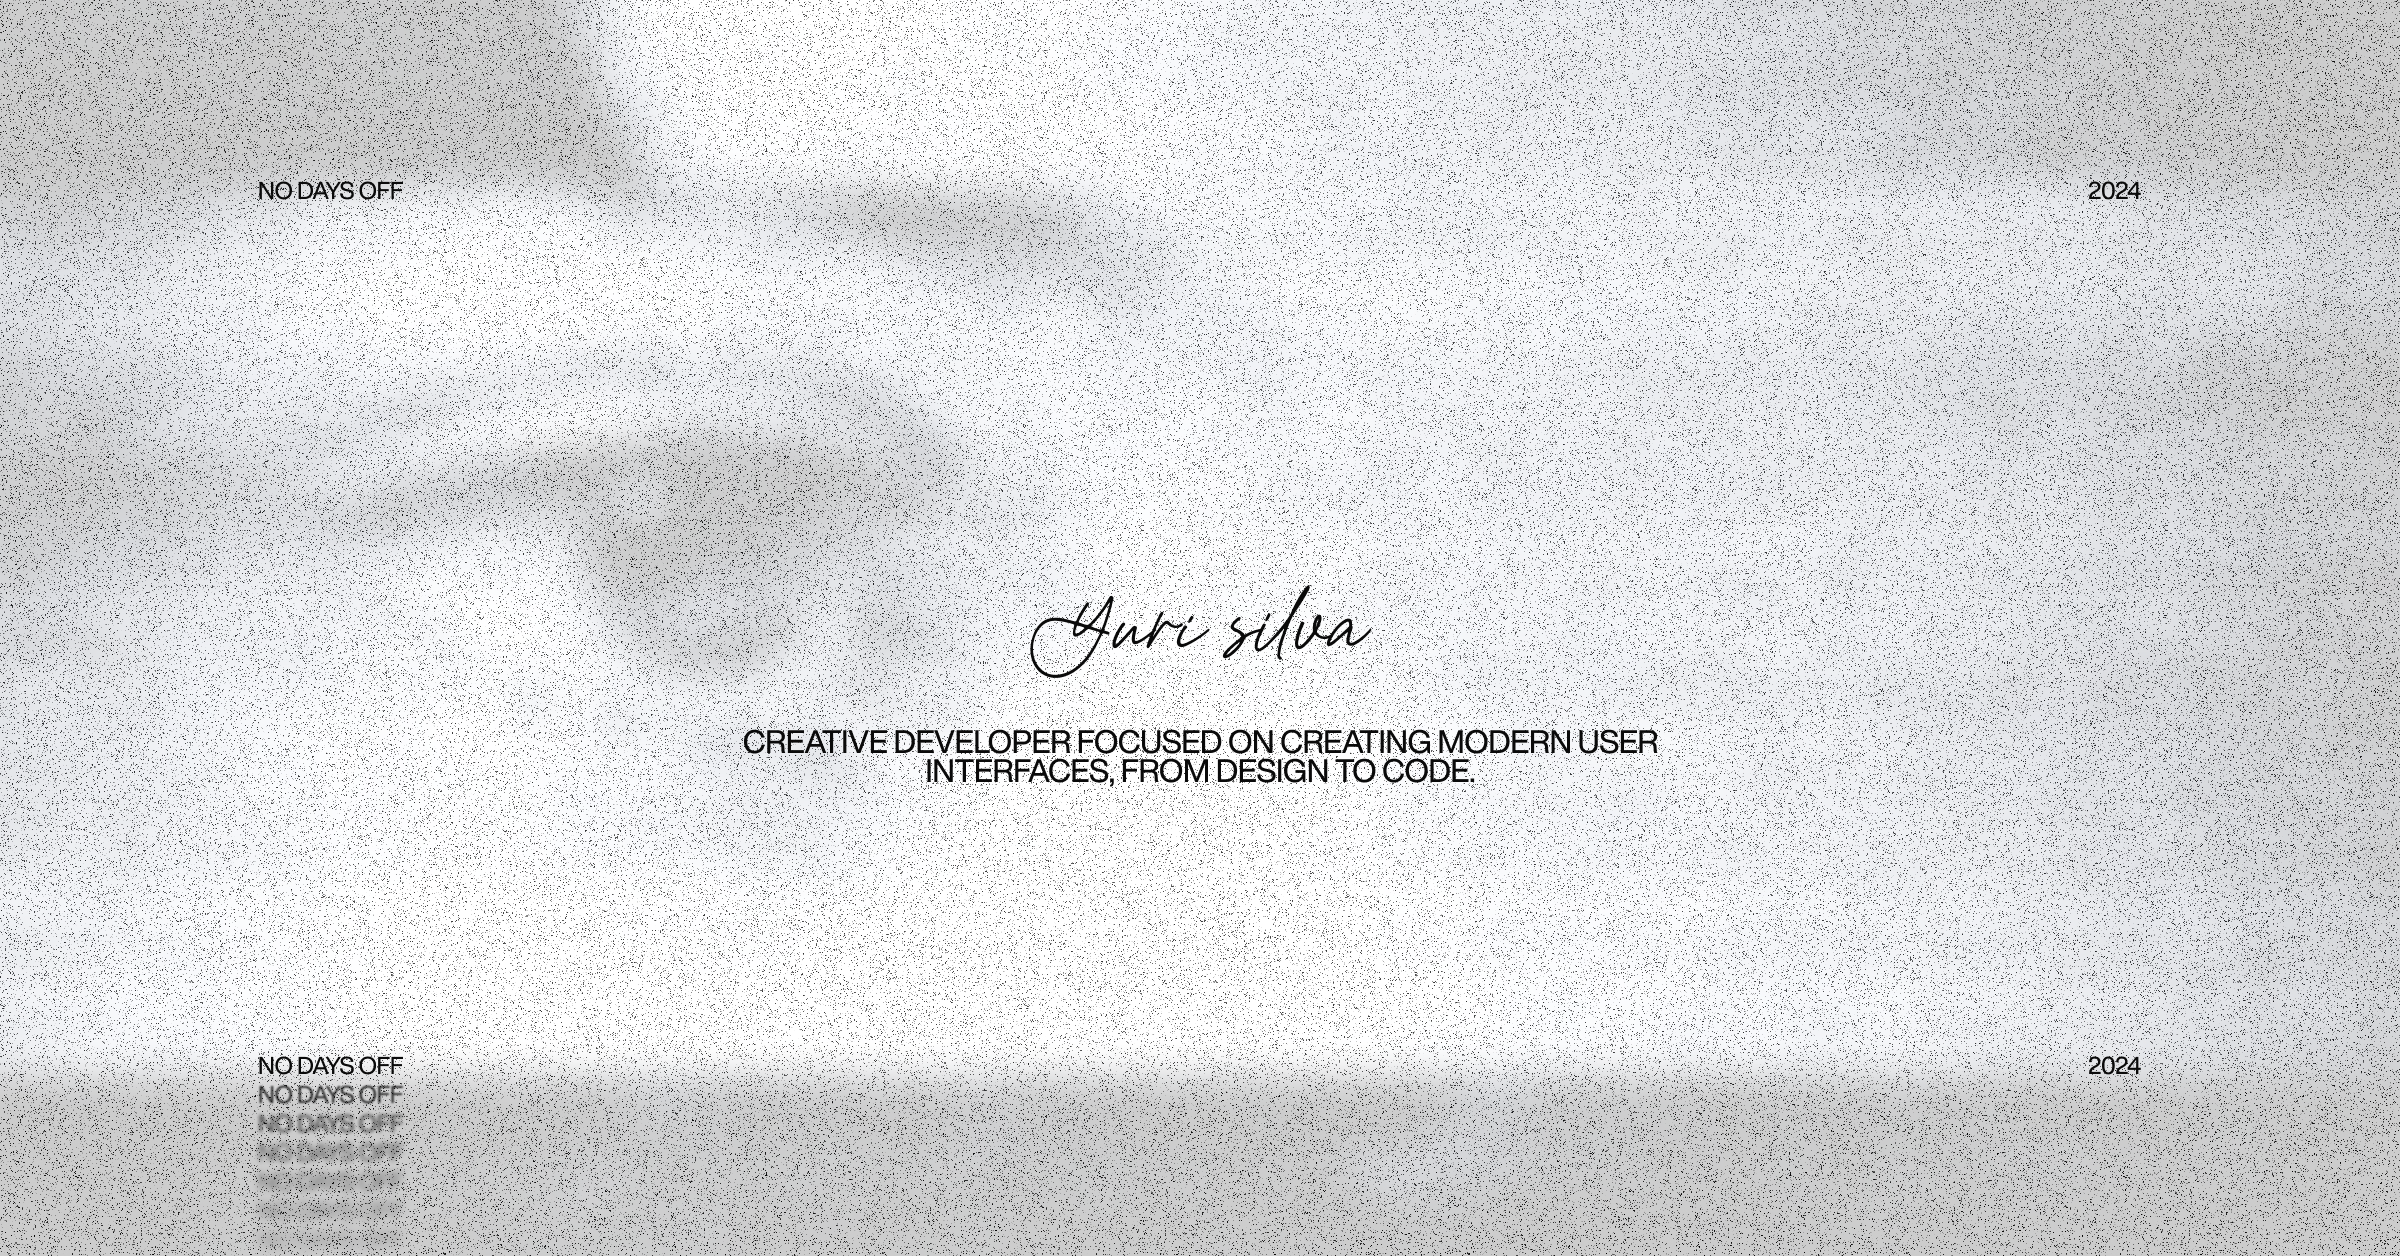
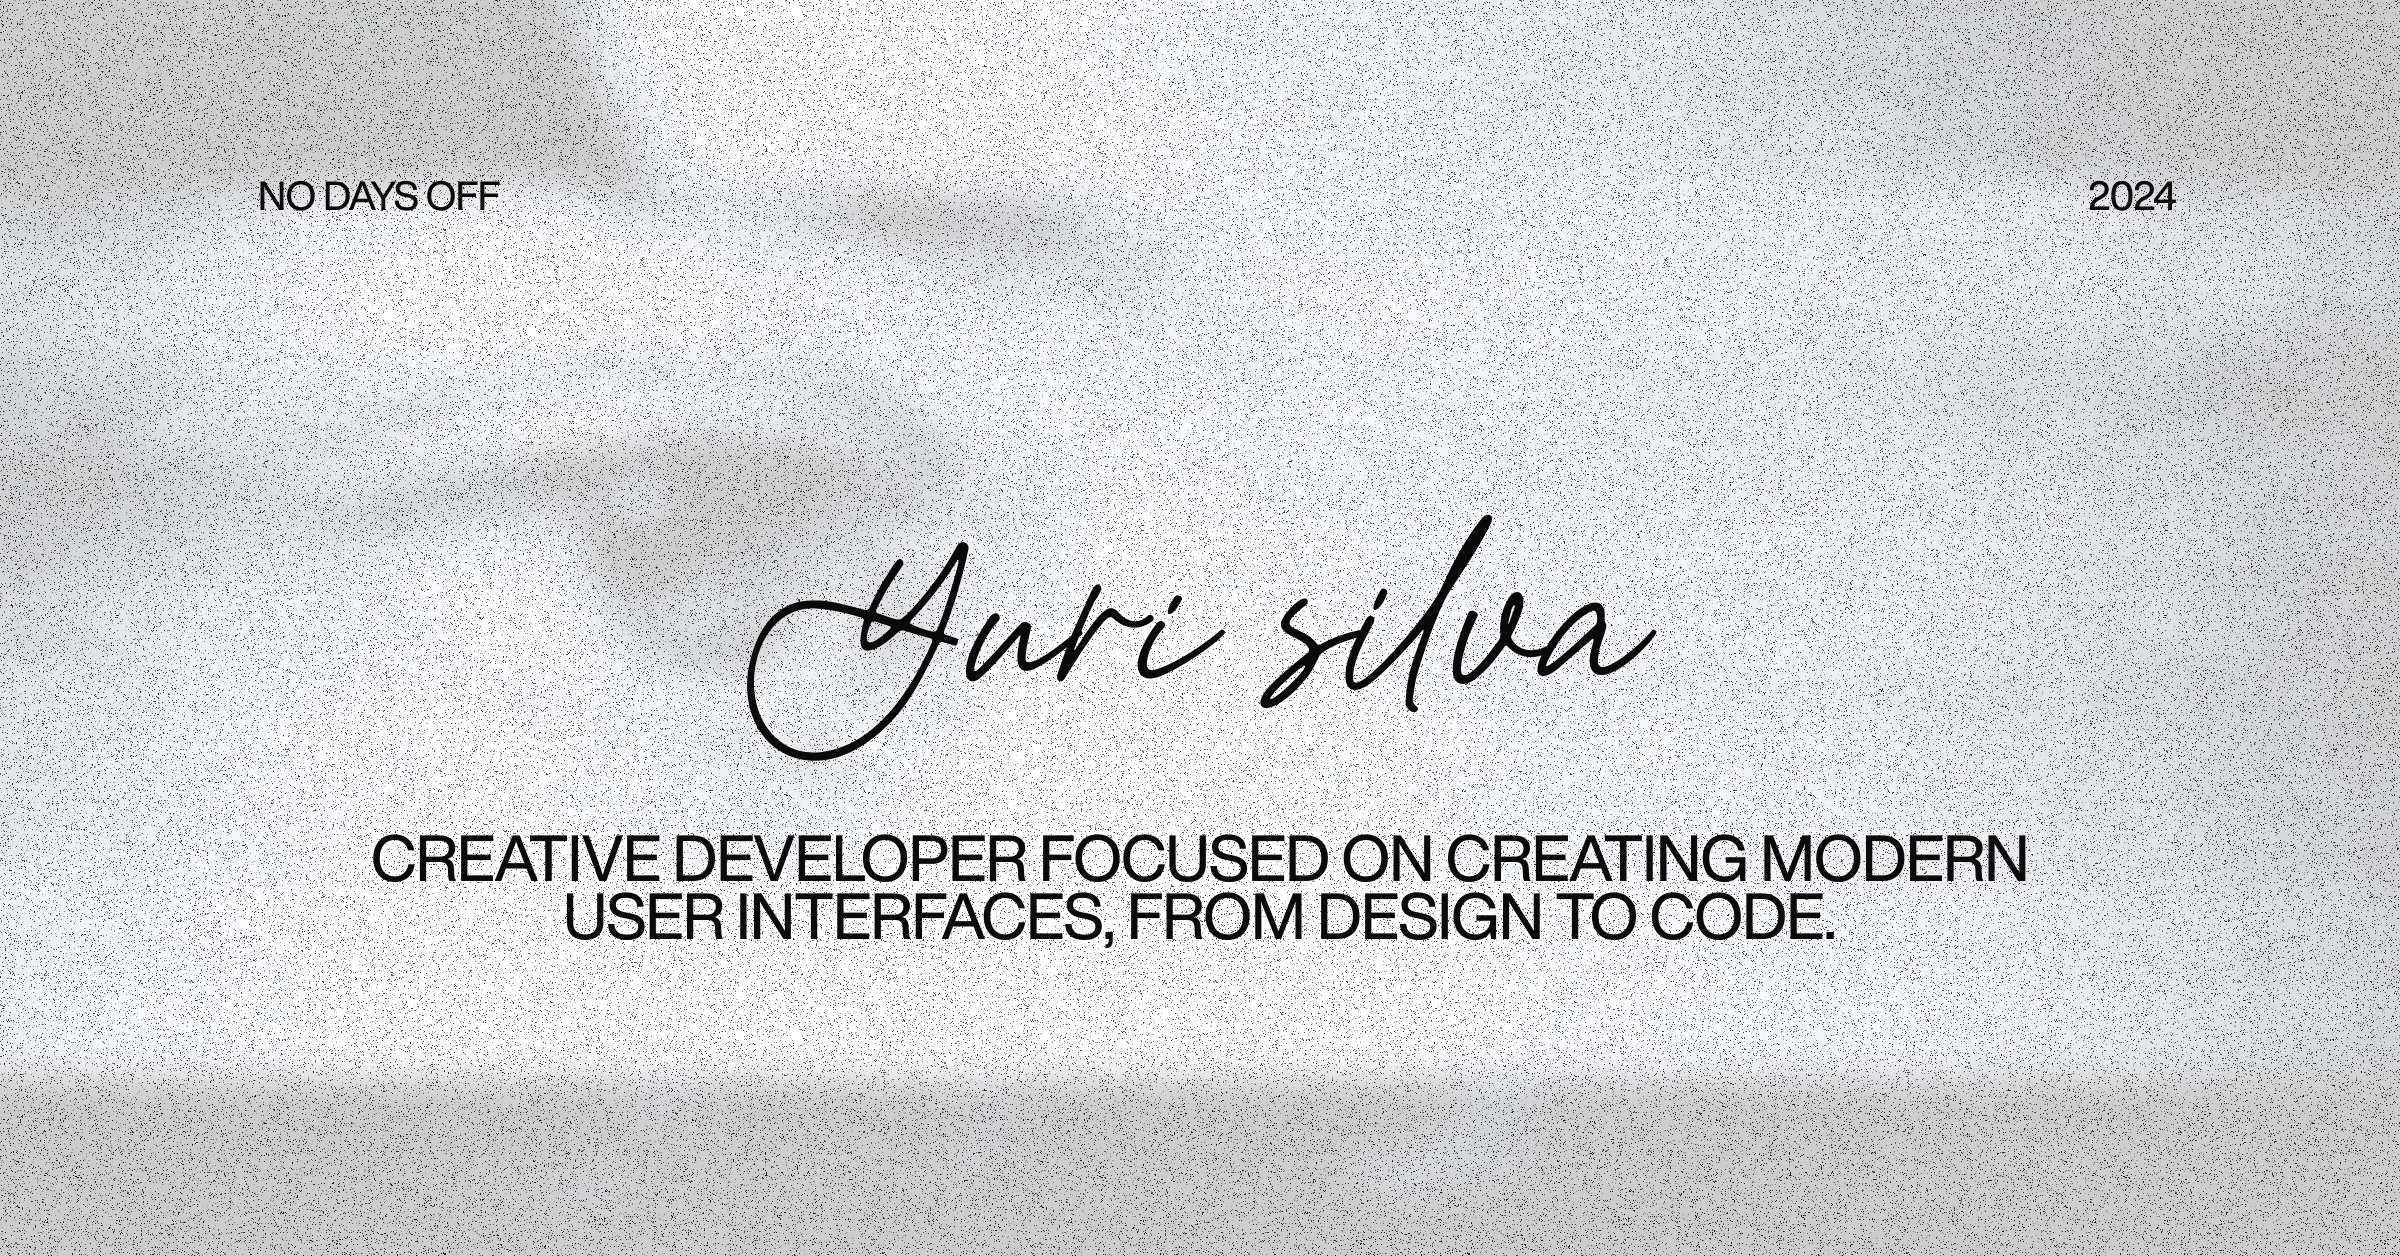
fix: TEST?

diff --git a/src/components/open-graph/openGraphImage.tsx b/src/components/open-graph/openGraphImage.tsx
@@ -27,8 +27,9 @@ const openGraphImage: FC<openGraphImageProps> = ({
                     fontFamily: "Helvetica",
                     textTransform: "uppercase",
                     letterSpacing: "-0.05em",
-                    fontSize: "30px",
-                    lineHeight: "36px",
+                    fontSize: "60px",
+                    lineHeight: "1",
+                    textAlign: "center",
                 }}
             >
                 {title}
